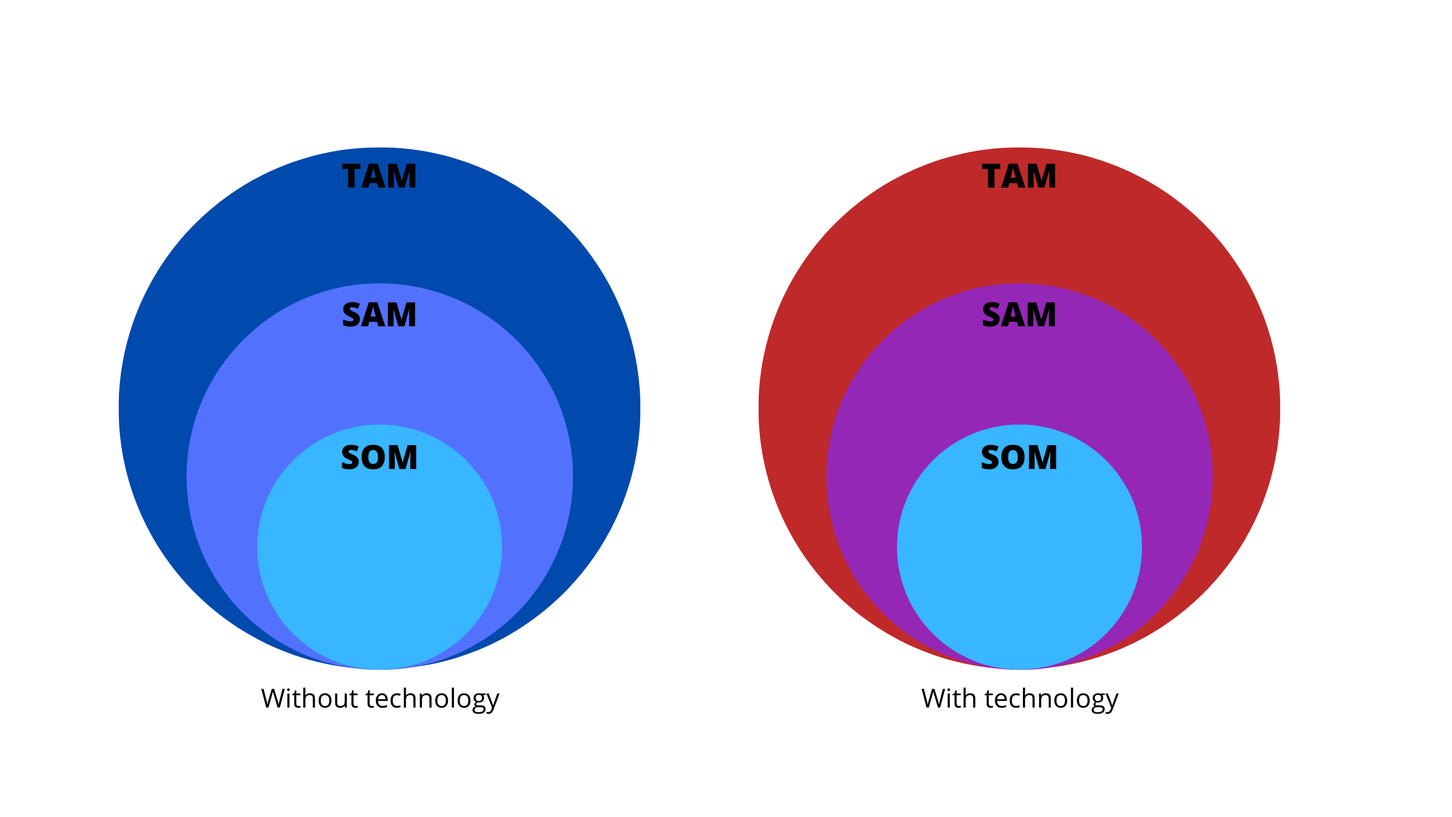
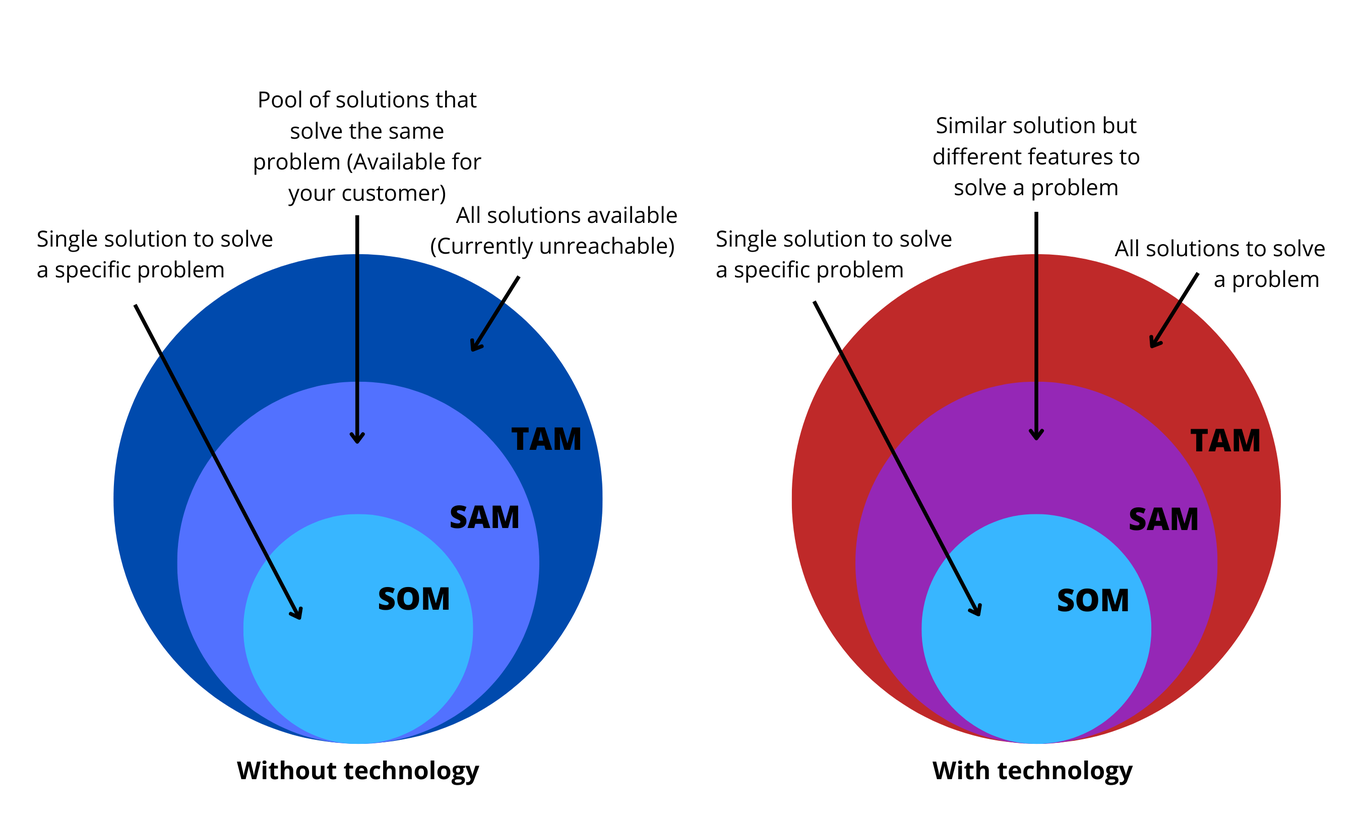
new pictures

diff --git a/src/course/tech-partner/chapter-02.md b/src/course/tech-partner/chapter-02.md
@@ -1,24 +1,43 @@
 ---
 title: Predevelopment Understanding
-author: Bernardo Brandano
+author: Bernardo Brandao
 category: biztech
 weight: 2
 ---
 # Predevelopment Understanding
->Putting the project to paper is a good way of evaluating crucial points of what this project will require from the business/back-office and the non-technical responsible himself.
+>Putting the project to paper is a good way of evaluating critical understandings of what this project will require from the business/back-office throughout the development.
 
-As a initial sketch to begin visualizing the project as a whole, one could use parts of a pitch deck format to evaluate if the idea is worth proceeding with. Allow some points on the pitch deck to be incomplete, as it is better than filling the voids with false or unrealistic information. It is important to be cautious of gathering information solely with research, as results are often  generalized, it may turn out to be misleading. The processes of a technological journey are not standardized and varies for most of the projects.
+As a initial sketch to begin visualizing the project as a whole, one could use sections of a pitch deck format to evaluate if operationally the idea will pay itself and if it's worth proceeding with. Allow some points to be incomplete, as it is better than filling the voids with false or unknown information. When researching about what are the trends and tendencies of your market, it is important to be cautious of gathering information because it is not always accurate or available, it may turn out to be misleading. The processes of a technological journey is not standardized and varies between projects.
 
 ### Market research
-One of the wonders of technology is that it expand the business' SOM (Serviceable Obtainable Market). What sets the barriers of entry into the SAM (service Available Market) and the TAM (Total Available Market) are things such as location and access to customers. With that being said, blue oceans become red faster. When researching about other players, also consider how much can they grow and where can they be by the time one's new solution is up and running.
+One of the wonders of technology is that it expand the business' SOM (Serviceable Obtainable Market). What sets the boundaries into the SAM (service Available Market) and the TAM (Total Available Market) usually are things such as location, access to customers, and volume of operational handle. With that being said, blue oceans become red faster. When researching about other players, also consider how much can they grow and where can they be by the time one's new solution is up and running.
 
-**~~Picture 3**~~   
+![Figure 3: TAM](images/picture3.png){class=img-fluid}  
 
->The image above shows an example of entering a blue ocean without technology. To the left, the SOM can be barely untapped, the sam have a couple of options and the TAM have solutions, but one barely affects the others' businesss, as it is hard to obtain. To the left, what can sound like a local or simple problem will have more solutions trying to gather users to use different forms of solutions for the problem at SAM, and a unbounded amount of solutions at the TAM, as technology can help one reach anyone anywhere. 
+>The diagram on the left represents a blue ocean market that does not count on technology to operate. It is harder to obtain a bigger market share because of the geographical barriers of providing a service or product. On the other hand, the diagram on the right represents a market that is dependend in technology or technological itself. Different products have different solutions for the same problem. The wider the search gets, the more alternative solutions or players will come across.
 
-The market research should not only be about similar players or solutions, but also other about others that help solve the same problem one's looking to eliminate. The first line of thought prior to beginning the search should be, in order to create a solution that will solve the problem, is fixing one step of the way enough or do I need to fix the whole path in order for the pain to really be solved. This will help you understand if little solutions combined will do your job if put together. As an example, just because you want to create an automated lock for homes, it doesn’t mean you need to create a solution for the residence car gate. Even though they seem like similar markets, different technologies come in play. It’s almost like you are creating two products. The problem one feels the need to address should be enough of a pain for a company/community/society, that enlarging the scope of the idea should not need to be done in order for one to believe the problem will be solved.
+The market research should not only be about similar players or solutions, but also about other ways to solve the same problem your looking to eliminate. The first line of thought prior to beginning the search should be, in order to create a solution that will solve the problem, is fixing one step of the way enough or do I need to fix the whole path in order for the pain to really be solved. This will help you understand if little solutions combined will do your job if put together. As an example, just because you want to create an automated lock for homes, it doesn’t mean you need to create a solution for the residence car gate. Even though they seem like similar markets, different technologies come in play. It’s almost like you are creating two products. The problem one feels the need to address should be enough of a pain for a company/community/society, that enlarging the scope of the idea should not need to be done in order for one to believe the problem will be solved.
 
 Trying to solve every single step of the way will enlarge the scope of the MVP will raise costs as well as potentially repel innovators and early adopters, as they are committing to a solution bigger than their need. A MVP that fails to test the product-market fit will likely take it's next steps blindfolded.
+
+If researching for an internal solution, there is always a SWOT analysis to make when adopting an internal software that was developed on a white label model as seen on the example below:
+
+|  SWOT              |Internal software adoption|
+|----------------|-------------------------------|-
+|Strengths|Quick implementation 
+|Weaknesses| Adapting operation to given solution
+|Oportunities|Quick adaption to the market
+|Threats|Relying on a third party  third party software
+||
+
+| |Internal software development|
+|----------------|-------------------------------|-
+|Strengths|Built to suit and proprietarily owned
+|Weaknesses| Investment to be done
+|Oportunities|On demand improvement and updates
+|Threats|Operations underutilizing the investment
+||
+
 
 ### Marketing
 
@@ -26,9 +45,9 @@ Trying to solve every single step of the way will enlarge the scope of the MVP w
 When marketing internally to employees, a onboarding should be done in order to train them how to use the software.
 
 #### External
-At the starting point, if the __technology is being built around the idea__ the assumption is that the company/startup is already up and running and a marketing team most likely exists. This team doesn't necessarily need to market the technology, but rather what it is going to change for their user/client.
+At the starting point, if the __idea is being supported by technology__ the assumption is that the company/startup is already up and running and a marketing team most likely exists. This team doesn't necessarily need to market the technology, but rather what it is going to change for their user/client.
 
-In the case of __building and idea around technology__, the 7 P's of marketing should be a core knowledge. A rundown of the 7 P's of marketing should be carefully drawn out to validade the idea is worth building. If any of the 7 P's are unclear, it is in the best interest that they are redone and reevaluated as many times as it takes before taking the first step of the project.
+In the case of __technology being built for an idea__, the 7 P's of marketing should be a core knowledge. A rundown of the 7 P's of marketing should be carefully drawn out to validade the idea is worth building. If any of the 7 P's are unclear, it is in the best interest that they are redone and reevaluated as many times as it takes before taking the first step of the project.
 
 ## Conclusion
-Know your idea. Know exactly what you need in a business and operational standpoint. Before embarking onto the development phase, make sure you know  give yourself enough time on. As soon as you commit into starting your project, stepbacks can cost you time and money. Standing on what you believe the final outcome will look like is important. 
+Know your idea. Know exactly what you need in a business and operational standpoint. Before embarking onto the development phase, make sure you know  give yourself enough time on. As soon as you commit into starting your project, stepbacks can cost you time and money. Standing on what you believe the final outcome will look like is important.

diff --git a/src/course/tech-partner/chapter-01.md b/src/course/tech-partner/chapter-01.md
@@ -1,36 +1,33 @@
 ---
 title: Understanding Technology
-author: Bernardo Brandano
+author: Bernardo Brandao
 category: biztech
 weight: 1
 ---
 # Understanding Technology:
-> The first thing to reflect when building a technological solution is if the technology is being built around an idea or is the idea being built around technology. Is the intent to facilitate or innovate a process of a already existing company/startup or is the company/startup being founded around this new technology?
+> The first thing to reflect when building a software is if the technology is being built for an idea or is the idea being supported technology. Is the intent to facilitate or innovate a process of an already existing company or is a company/startup being founded around this new technology?
 
-![Figure 1: flow diagram](images/picture1.png)
+![Figure 1: flow diagram](images/picture1.png){class=img-fluid}
 
-There is an abundance of existing technological resources one can acquire, subscribe or simply utilize for their business. Nowadays, it is very rare to come across businesses that do not count on softwares, as they facilitates running a scalable, errand-free operation. Often overseen if not perceived as the main activity of a given business, technology comes in play in the backstage of most successful ventures, whether as an internal or external software. The technological needs of a business differs from one another, depending on the intentions and objectives they plan on achieving when implementing the technology.
+There is an abundance of existing technological resources one can acquire, subscribe or simply utilize for their business. Nowadays, it is very rare to come across businesses that does not count on softwares, as they facilitate running a scalable, errand-free operation. Often overseen if not perceived as the main activity of a given business, technology comes in play in the backstage of most successful ventures, whether as an internal or external software. The technological needs of a business differs from one another, depending on the intentions and objectives they plan on achieving when implementing the technology.
 
-The alignment of the business activities (back-office in case of a technology built around an idea) and technological activities are vital in order for the execution of the starting plan come to realization, putting one in a good position for a future blitzscale.
+The alignment of the business activities and technological activities are vital in order for the execution of the project to succeed, putting one in a good position for a future blitzscale.
 
-Despite blitzscaling being important, especially for young startups to survive, there should be an understanding, in any sized business, how the next growth spree is going to look like. Always powered from within, some will innovate with an internal software aiming to see a immediate benefit operations, consequently putting them in a position to grow outwards. On the other hand, others will build an external software to firstly impact the clientele with the intention to bring income, facilitation, and image likeness that will help the business grow as a consequence.
+Despite scaling being important, it should not be done without the planning and understanding of any given sized business or enterprise how the next growth spree is going to look like and what resources will be needed to do so. With the first action always being from within, there are two different routes one can take. Innovating with an internal software is for businesses aiming to see a immediate impact in operations, and as a second step, putting them in a position to grow outwards by being able to handle a bigger traffic. On the other hand, an external software is designed to firstly impact the clientele with the intention to bring income, marketing results, and image likeness that will help power the backoffice through increased revenue.
 
-**~~Picture #2**~~
->The image above presents how using a internal software will allow one to organize operations such as a software in which employees can facilitate a internal process or store and process data in a certain format. Meanwhile, a external software is used as a quicker chanel to the client, whether it is to sell a good or provide a service.
+|                |`Internal `                         |`External`                         |
+|----------------|-------------------------------|-----------------------------|
+|`Fit for:` |Enterprises with specific needs and/or operational demand            |Startups at any stage, enterprises, Non-technical founders            |
+|`Purpose:` |Organize communication and operations, as well as operational demands            |Quicker channel to client and tech. being build fot an idea          |
+|`Users`    |Employees|Clients|
+
+>The graph above presents the basics and differences between internal and external softwares.
 
 Understanding if the software is internal or external will make a big difference down the stretch. This will affect many of the processes during the project such as urgency, budget, legal implications and some areas of the company.
 
-If all currently available softwares and services fails to provide a solution needed by company, community or society when tested, then it's probably fair that one could start considering investing in a technological solution. 
-
+Startups and companies with small operational demand can usually run with existing softwares, but as demand and scalability increases, it is in the best interest to internalize operations and build a BTS (Built to suit) softaware that will help develop a dependant-free business model.
   
 ## Technological Perspective
->When creating a software as a nontechnical entrepreneur or project manager, it is evident that you will need a technological partner.
+A computer science background is not necessary for every member involved on the project. In fact, separating jobs to be done is beneficial. The reason being is that just like technological roles have specialized themselves as such, so should the non-technological ones. Bring in someone that can do their job as well as you can do yours. Hire your weaknesses.
 
-A computer science background is not needed in every member involved on the project. In fact, separating jobs to be done is beneficial. The reason being is that just like technical roles have specialized themselves as such, so should the nontechnical ones. 
-
-but paying close attention to everything you are taught by your tech partner will help you build an understanding on the topic will make a significant impact on the long run.
-
-## Conclusion
->The first step is no step. As an idea begins to mature, it is important to understand which way one may take, rather than taking harmful steps.
-
-Hopefully, the rundown on understanding a tech development project helped overview the first of many steps previous to transforming an idea into a project. This series of articles has the intent to inform and help guide the journey of a nontechnical role such as am entrepreneur, project manager or whoever it may be, into the technological world.
+Worrying about the development won't help, but understanding the process will. To understand the technological perspective, a lot of time will be spent in developing a computer science knowledge. What is probably best to do is learn the basics of the scrum methodology, which will be mentioned again later.

diff --git a/src/course/tech-partner/chapter-04.md b/src/course/tech-partner/chapter-04.md
@@ -5,24 +5,23 @@ category: biztech
 weight: 4
 ---
 # Searching for a Technology Partner: The breakdown
->Seeking out for a technical party from a nontechnical perspective, if you are not familiar with tech, is the first step of many steps one will be taking out of their comfort zone. It's almost like swimming in open ocean. You don't know what to expect and quite frankly, sometimes what to even look for. Here is a breakdown on what to look for.
+>Seeking out for a technological party from a non-technological perspective, if you are not familiar with tech, is the first step of many steps one will be taking out of their comfort zone. It's almost like swimming in open ocean. You don't know what to expect and quite frankly, sometimes what to even look for. Here is a breakdown on what to look for.
 
 To get the solution up and running, there are different ways to bring your technology partner into business with you. You can either build or buy your software. As both alternatives are expensive due to the heated market, one alternative can become significantly cheaper than the other in the long run. But every situation is different (falar mais aqui sobre porque alguma pode ser mais barata que a outra, compare and contrast- Pode ser em outro parágrafo)
 
 ## Build vs. Buy
->Given that one plays a nontechnical role, there are two primary forms of investing in technology. Different investment types can vary in delivery Time, price, and relationship with the technological party.
+>Given that one plays a non-technological role, there are two primary forms of investing in technology. Different investment types can vary in delivery Time, price, and relationship with the technological party.
 
-The compensation towards a technical party can be done in several ways, most comonly, through money and shares. when Insourcing, it is probably a good idea to offer some shares.
+The compensation towards a technological party can be done in several ways, most comonly, through money and shares. when Insourcing, it is probably a good idea to offer some shares.
 
 When software development companies in particular ar too big, they will take any given project above their starting price. Their goal is going to be conclude the project, whilst your goal will be to put the project to action.
 
-
 ### Insourcing
-Insourcing technology, or hiring software developers into your company definitely has its advantages. Quality and price are two things that you need to consider when searching. There are two types of investments that could be made in insourcing. You can either bring in a team and put them on a payroll or you can bring in a technical co-founder and give him equity for being part of your venture. It is very unlikely that one person will be able to handle coding your project, but it can happen. If doing so, make sure
+Insourcing technology, or hiring software developers into your company definitely has its advantages. Quality and price are two things that you need to consider when searching. There are two types of investments that could be made in insourcing. You can either bring in a team and put them on a payroll or you can bring in a techological co-founder and give him equity for being part of your venture. It is very unlikely that one person will be able to handle coding your project, but it can happen. If doing so, make sure
 
 It is understandable that you may have a hard time judging on the quality. When you are
 
-For starters, it is better seen in the eyes of technical investors that your company produces its own software rather than outsourcing it, as I am assuming it will be one of the main activities of your venture.
+For starters, it is better seen in the eyes of technological investors that your company produces its own software rather than outsourcing it, as I am assuming it will be one of the main activities of your venture.
 
 When insourcing, forms of compensation can include money, shares, or a mix of both. As now part of the company, showing them they have value is important. In this scenario, shares are usually seeked by developers for two main reasons. The first reason may be that, if a company cannot afford keeping the heavy salary of a development team, the developers can gain this compensation as an alternative. Secondly, by mixing forms of compensation, it keeps them motivated and can still benefit if fired from the company.
 
@@ -38,3 +37,6 @@ The big thing you should keep in mind when looking into different software devel
 When outsourcing, the software development company will most likely only take monetary compensation due to their business model. This allows them to keep talent in payroll.
 
 Apart from committing to the development contract, which is a budget that will be spend sooner than if insourcing (Can also depend on how the terms of payment look), there can me minor downsides but nothing that will affect one too much.
+
+> ### A good analogy to build vs. buy...
+To explain this in other words, let's use an example of a broken car and different ways to fix it. On this analogy, Insourcing is you and outsourcing is a mechanic. You have been noticing your car is making a noise and you know what triggers it. On the other hand, the mechanic has not only fixed cars like yours, but many other kinds if cars too. In addition to that, he has the resources and expertise of other mechanics that face innomerous different car problems everyday. By insourcing, the problem can be fixed, but by outsourcing, the problem will be fixed in the best way to do so.

diff --git a/src/course/tech-partner/chapter-08.md b/src/course/tech-partner/chapter-08.md
@@ -9,27 +9,27 @@ weight: 8
 
 As the development is about to conclude, the technological partner will have something to show for. This means that the core coding is done and some visuals begin to function. It is most likely that the software will not be fully functioning, but that's because it is not ready yet.
 
-**image #8**
+![Image 8: Cycle](images/picture8.png){class=img-fluid}
 
->The cycle shown above shows the process between the delivery to the non-technical founder and the delivery to market. The cycle can go around as many times as needed.
+>The cycle shown above shows the process between the delivery to the non-technological founder and the delivery to market. The cycle can go around as many times as needed.
 
 Last article it was mentioned that it is crucial for one to make sure the other areas of the business are in the same page as the development. Well, this is the time where operationally, you can be ahead of your time. As you have images, a sense of how it is really looking and a estimated delivery date with a safe buffer (better deliver earlier rather than later of a promise date) and a better idea of how it will really look and function, you can now begin to tease the users with a near implementation. Depending on who your target user is, this will allow you to either begin to pitch your solution to users  if external or heat the conversations if internal.
 
-From this moment, there are two one can take it's relationship with the technical partner. Despite the development not being ready, software developers need to plan themselves ahead of time in order to understand if they can begin to allocate workforce for upcoming projects or if the developers will continue working on your solution.
+From this moment, there are two one can take it's relationship with the technological partner. Despite the development not being ready, software developers need to plan themselves ahead of time in order to understand if they can begin to allocate workforce for upcoming projects or if the developers will continue working on your solution.
 
-**image #9**
+![image 9: Timeline](images/picture9.png){class=img-fluid}
 
->The image above shows the timeline between a technical and non technical founder. After the product is market-ready, the relationship may or may not continue upon your decision
+>The image above shows the timeline between a technological and non technological founder. After the product is market-ready, the relationship may or may not continue upon your decision
 
 ### Relation
 >As your relationship with your technological partner comes close to an end (if outsourcing was the option chosen), there are two ways to go from here:
 
-One of the biggest issues with discontinuing the relationship with the technical founder is that some time of the non-technical team will need to be allocated to understanding how to maintain and run a software.
+One of the biggest issues with discontinuing the relationship with the technological founder is that some time of the non-technological team will need to be allocated to understanding how to maintain and run a software.
 
 #### End of relationship
-If the non-technical founder is satisfied with the solution and wish to store the app, some advising will need to be done so that the app maintain itself up and running. This is completely doable if one gets ahead on how to do so.
+If the non-technological founder is satisfied with the solution and wish to store the app, some advising will need to be done so that the app maintain itself up and running. This is completely doable if one gets ahead on how to do so.
 
 #### Continuity of relationship
 Almost treating like a 'cost of insurance' to maintain the software running, software development companies usually work with two types of post-development contracts.
-The first type of contract is a sustain contract. This means the non-technical partner pays a relatively small fee in order for the technical one to be responsible of maintaining the software running.
-The second type of contract is a development contract. Usually offered in several prices, this contract is basically the maintenance of the one above, but it also counts with a number of hours of development as well. The price of the contract will be directly correlated with the amount of hours you would like the technical founder to devote on developing other functionalities and slowly adding to the MVP. 
+The first type of contract is a sustain contract. This means the non-technological partner pays a relatively small fee in order for the technological one to be responsible of maintaining the software running.
+The second type of contract is a development contract. Usually offered in several prices, this contract is basically the maintenance of the one above, but it also counts with a number of hours of development as well. The price of the contract will be directly correlated with the amount of hours you would like the technological founder to devote on developing other functionalities and slowly adding to the MVP. 

diff --git a/src/course/tech-partner/chapter-07.md b/src/course/tech-partner/chapter-07.md
@@ -5,9 +5,9 @@ category: biztech
 weight: 7
 ---
 # Overseeing the progress
->Assuming your project is already in development, being on the same page as the technical founder will allow you to understand when certain actions or intervention are needed. 
+>Assuming your project is already in development, being on the same page as the technological founder will allow you to understand when certain actions or intervention are needed. 
 
-While the project is being development, the other areas need to be in the same page in whichever activities they must conclude before the project is delivered by the development team. Focusing on non-technical only areas or too much on trying to understand the technicalities of the project may result in a blindspot. It is probable that your non-technical partner has presented to you a development plan containing sprints that will contain a timeline to follow. 
+While the project is being development, the other areas need to be in the same page in whichever activities they must conclude before the project is delivered by the development team. Focusing on non-technological only areas or too much on trying to understand the technicalities of the project may result in a blindspot. It is probable that your non-technological partner has presented to you a development plan containing sprints that will contain a timeline to follow. 
 
 ## How to oversee technicalities?
 
@@ -16,13 +16,13 @@ If one maintains theirself informed since the beginning of the project, asking a
 
 Some project managers that work with the technological partners also do not know how to code. Even though they are in the technological industry, all they got familiar with to be able to conduct a project was with scrum and agile methodology. If a non-technological founder has some spare time, it would be very beneficial for one to read and understand the methodology.
 
-One won't be able to tell if one thing was done correctly or not. The question in order here should be what is wrong whether than why is it wrong. When understanding what is wrong, the non-technical party will be able to estimate by how much the project will delay. If the question why is it wrong seems to have a need for response, seeking a consultant is probably a good idea.
+One won't be able to tell if one thing was done correctly or not. The question in order here should be what is wrong whether than why is it wrong. When understanding what is wrong, the non-technological party will be able to estimate by how much the project will delay. If the question why is it wrong seems to have a need for response, seeking a consultant is probably a good idea.
 
 >By outsourcing a consultant, (s)he'll be able to evaluate the current progress and judge if the develpers are taking longer than they should or why is the project stagnated.
 
 ## Pull the Plug if needed
 >If things were not planned accordingly, or if they were poorly excecuted, knowing when to pull the plug on the project is important as a trial of minimizing costs.
 
-Unfortunately, like in every other business, sometimes the technical party promised something they couldn't deliver in order to win the contract. Whether it is a team of developers that weren't ready to build what you agreed upon or a software development company that promised a quicker or cheaper delivery. 
+Unfortunately, like in every other business, sometimes the technological party promised something they couldn't deliver in order to win the contract. Whether it is a team of developers that weren't ready to build what you agreed upon or a software development company that promised a quicker or cheaper delivery. 
 
 Cutting a bad partner by the roots at the right time will still give you an opportunity to invest the rest of the money onto someone else. In case this happens to you, there is no need to feel dismotivated, as it happens to some projects. Bare in mind that, unlike other factors mentioned on this series of articles, this is not dependent on the project itself. Even though journeys are taken differently in given projects, this is solely dependent on the technological partner. If they have had turnover projects before, don't feel singled out if this happens to you.

diff --git a/src/course/tech-partner/chapter-06.md b/src/course/tech-partner/chapter-06.md
@@ -4,21 +4,21 @@ author: Bernardo Brandano
 category: biztech
 weight: 6
 ---
-# Building your MVP
->Potential scalability is very important for every business to maintain themselves competitive amongst other players in the market. But the evolution orbits the main focus.
+# Building your Technology
+>Potential scalability is very important for every business to maintain themselves competitive amongst other players in the market. But the evolution orbits the main purpose.
 
-Considering one has already a formed partnership with a non-technical partner, the definition of the minimum viable product scope should be debated and agreed upon. The scope of this project will define, now better than ever, the cost and duration of development.
+Considering one has already a formed partnership with a technological partner, it is in the best interest to include them in the debate of finalizing the scope. The definition of the scope will define, now with more certainty than ever, the cost and duration of development.
 
-The technical partner's experience will weight in when building the scope, as one that has much of, will be able to say with a better degree of precision on both cost and time.
+The technological partner's experience will weight in when building the scope, as one that has much of, will be able to say with a better degree of precision on both cost and time.
 
 Even though it might be tempting to make slight adjustments to the MVP if they are not going to cost any extra, make sure that those additions make sense in the building of the project. As previously mentioned in **"Article name"**, overstepping can not only cost you users if an external solution, but it can literally cost you a lot more money. As shown on the image below, thr MVP should be straight forward. The understanding of the idea is the circle as a whole, but the MVP is the heart of the funcionality. At this point in time, it is important to think on the price-per-feature. Is adding this going to make a difference on the revenue? This is a question that needs to be asked multiple times throughout the process of understanding your MVP.
 
-**image #7**
+![Image 7: Scope](images/picture7.png){class=img-fluid}
 
 ## Scoping
 >Having a good discussion with your technological partner can make the solution more viable.
 
-Although the non-technical party is responsible for the idea, sometimes the adjustment of a couple of features of unforeseen complexity can be advised to be removed by them. When pitching the idea you want to develop with your technical partner, make sure to include him on the conversation. A technical partner, even though hired for the purpose of developing, should also feel like he is in a position to respectfully give an input if he feels like. You want minds like this acting like if that was their project too. Let them treat it like they are part of it, and the outcome will be seen on a further point.
+Although the non-technological party is responsible for the idea, sometimes the adjustment of a couple of features of unforeseen complexity can be advised to be removed by them. When pitching the idea you want to develop with your technological partner, make sure to include him on the conversation. A technological partner, even though hired for the purpose of developing, should also feel like he is in a position to respectfully give an input if he feels like. You want minds like this acting like if that was their project too. Let them treat it like they are part of it, and the outcome will be seen on a further point.
 
 With innumerous solutions out there, even though it has been stressed enough to keep your MVP simple, make sure it doesn't fit a white label model.
 

diff --git a/src/course/tech-partner/chapter-03.md b/src/course/tech-partner/chapter-03.md
@@ -1,6 +1,6 @@
 ---
 title: Budget
-author: Bernardo Brandano
+author: Bernardo Brandao
 category: biztech
 weight: 3
 ---
@@ -9,9 +9,9 @@ weight: 3
 
 Building technology is trial and error. One must be aware that the costs to keep a tech solution up and running are relatively high. It is a high investment high return project if the metrics of the idea are correctly analyzed, as mentioned on the previous article. As projects can go over the estimated budget expectations, there has got to be an understanding that what you expect to spend on development should not even be half of your project's budget. In case of a poor financial planing, if more resource is not injected, the project could fail to conclude the development phase.
 
-**picture 4**
+![Figure 4: Donut chart](images/picture4.png){class=img-fluid}
 
-The graph above shows an example of how a healthy financial plan for a project development would look like. This can vary between projects given the amount of choice pathways that one will face when designing their own journey. Even though prices vary, it is safe to say the majority of the projects will cost a non-technical partner around $50,000 or higher depending on the complexity of the project. This price is based on the high salary of technological workers. On the following article, we will dive deeper on different ways off paying or investing into building a solution. 
+The graph above shows an example of how a healthy financial plan for a project development would look like. This can vary between projects given the amount of choice pathways that one will face when designing their own journey. Even though prices vary, it is safe to say the majority of the projects will cost a non-technological partner around $50,000 or higher depending on the complexity of the project. This price is based on the high salary of technological workers. On the following article, we will dive deeper on different ways off paying or investing into building a solution. 
 
 When making an investment, there is more than you should think about than the return on investment. The end goal will always be there, but the checkpoints in the middle of the way will determine if there is even going to be a ROI. When analyzing if a project financially makes sense, you have to think beyond how much you are willing to spend in order for it to be developed, as there will also be maintenance costs, and if in this case it’s a startup, other costs from different areas such as marketing and legal team should be taken into consideration as well onto the whole project budget.
 
@@ -21,3 +21,5 @@ As every project needs a manager, the first manager should be the creator himsel
 • Can I operate this solution on my own without technological support?
 
 If computer science is not your background, the answer to all of these questions should be no. Not because you don’t know, but because these factors are unpredictable. Developing is based on trial and error. No one opinion is right or wrong, but rather realistic or not. It is okay not to know none of these answers as of right now because they will come along during your journey.
+
+When investing on a project, keep in mind the price you are paying is not solely for 

diff --git a/src/course/tech-partner/chapter-05.md b/src/course/tech-partner/chapter-05.md
@@ -25,6 +25,6 @@ You should not be taken by the idea that a company or a team you insourced will 
 
 When settling the last remarks about the partnership, make sure you're familiar of who you're settling with. If possible, invite the developers, whether insourcing or outsourcing, into your company or visit where they are settled to create a sense of culture while developing the project.
 
-**Picture #6**
+![Image 6: funnel](images/picture6.png){class=img-fluid}
 
->The image above shows how to funnel down to the best options step by step
+>The image above shows the step by step on how to funnel down to the best options until you are left with the last few technological partners you are seeking to pair with.

diff --git a/src/course/tech-partner/chapter-00-intro-index.md b/src/course/tech-partner/chapter-00-intro-index.md
@@ -6,7 +6,7 @@ SpinSpire would like to welcome you to read about the journey of developing a so
 
 The target audience of this guide are primarily people who do not have enough technical knowledge to develop a software themselves. The ultimate goal of these publications is to make non-technological partners that may be hesitant to begin this journey feel comfortable by providing enough information and guidance about what the steps look like without finding out throughout the process.
 
-Along these articles, we will cover the following topics:
+The topics covered in these articles will be:
 • Chapter 01: Understanding Technology
 • Chapter 02: Predevelopment duties
 • Chapter 04: Budget

diff --git a/src/course/tech-partner/chapter-09.md b/src/course/tech-partner/chapter-09.md
@@ -18,6 +18,6 @@ SpinSpire developers are some of the best in the industry. They're good communic
 #### Consulting
 Have one of our **name of position** oversee a project you are developing. Let us give an input on what we think, creating a unbiased technological perspective that might occur when outsourcing.
 
-**image #10**
+![Image 10: Logo](images/picture10.png){class=img-fluid}
 
 **Check out more about SpinSpire and how we can add value to your technological solution at spinspire.com!**
